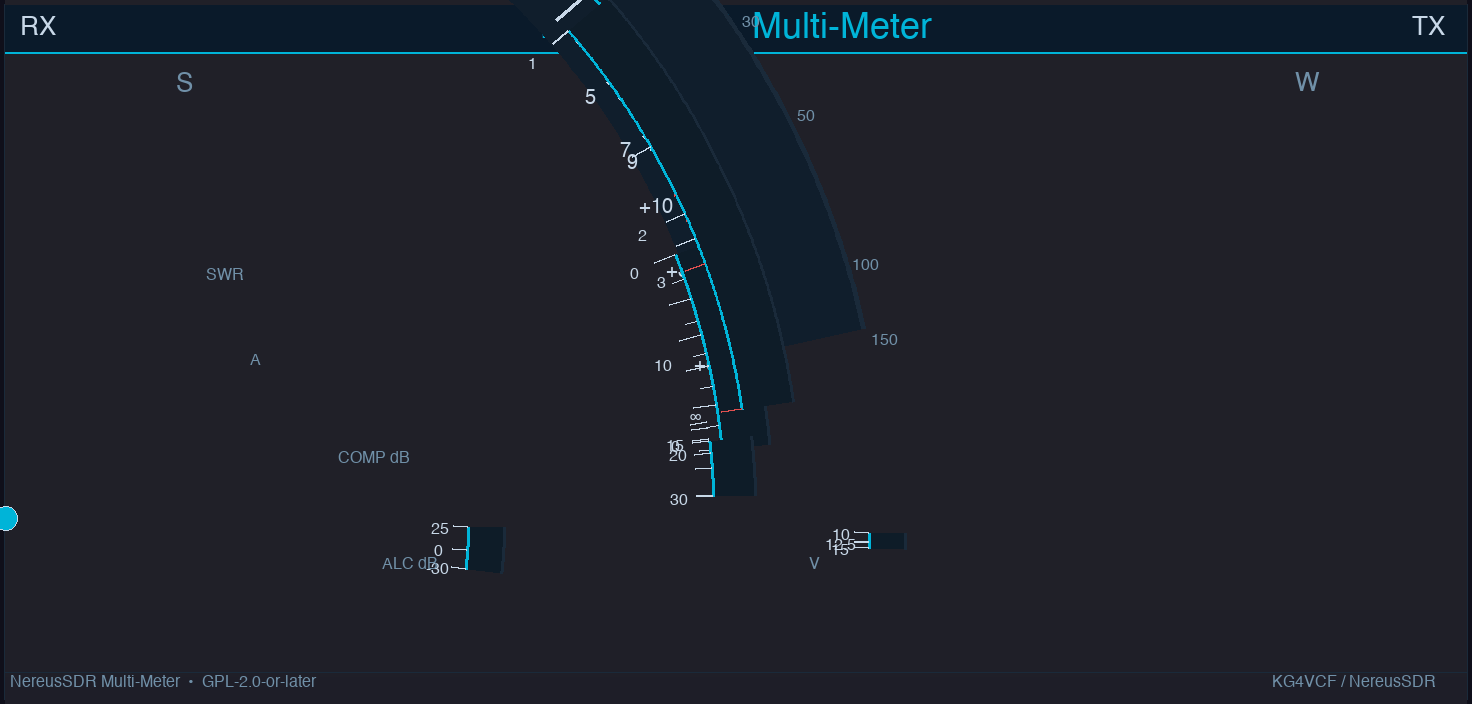
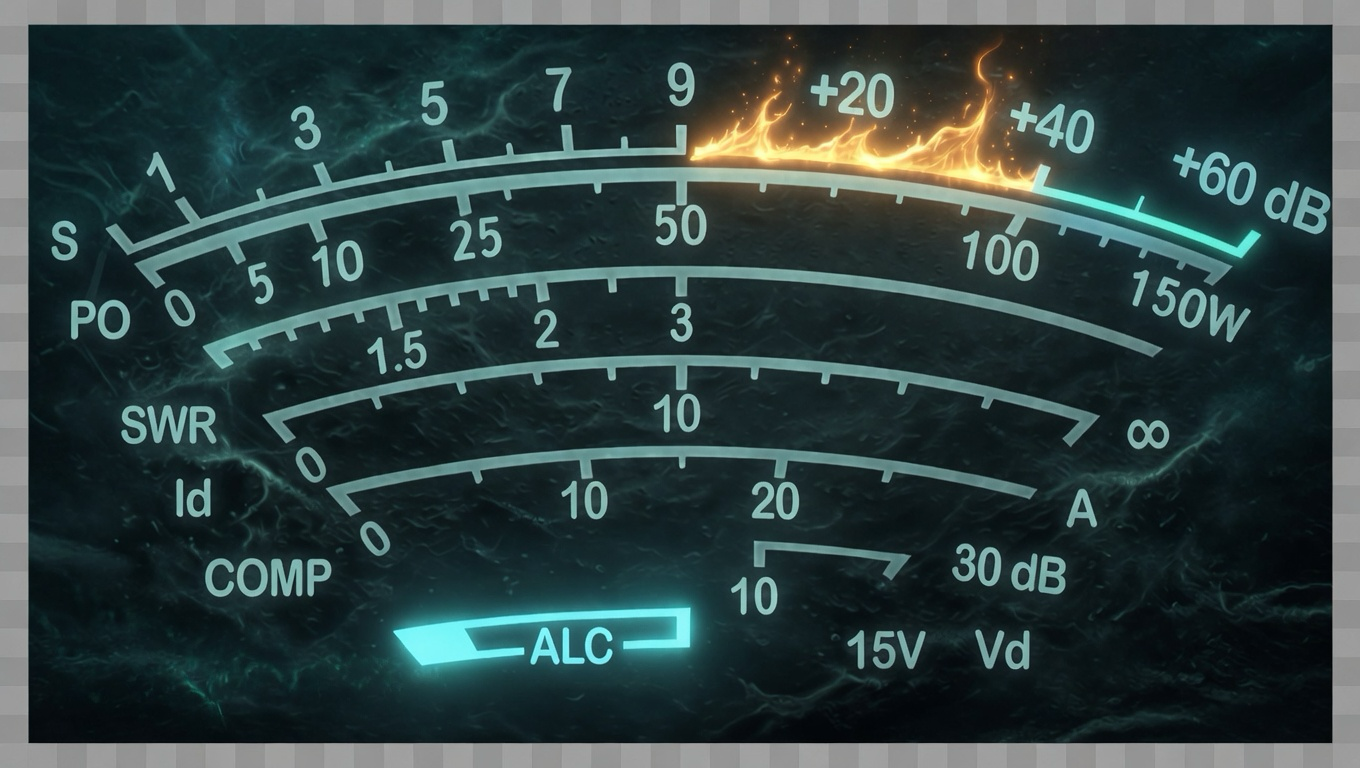
feat(compliance): swap in hand-designed meter artwork
Replace the interim programmatically-generated ananMM.png and
cross-needle.png / cross-needle-bg.png (from tools/generate-meter-face.py
and tools/generate-cross-needle.py) with hand-designed PNG artwork
authored by J.J. Boyd for NereusSDR.

- ananMM.png: 1360x768 (was 1472x704)
- cross-needle.png: 1104x928 (was 800x626)
- cross-needle-bg.png: 1104x928 (was 800x136) — same bitmap as cross-needle.png; the two-layer render path stays intact

No ANAN / Apache Labs / OE3IDE imagery, no Digital-7 typography. The
generator scripts remain in tools/ for history; ASSETS.md now documents
the hand-designed shipping artwork as the authoritative provenance.

diff --git a/docs/attribution/ASSETS.md b/docs/attribution/ASSETS.md
@@ -11,16 +11,17 @@ All assets listed here are GPL-2.0-or-later unless noted otherwise.
 
 | File | Origin | Author | License | Added |
 | --- | --- | --- | --- | --- |
-| `ananMM.png` | Original NereusSDR artwork — programmatically generated by `tools/generate-meter-face.py`. No ANAN / Apache Labs / OE3IDE bitmap was copied or derived. Scale calibration coordinates are from NereusSDR `ItemGroup.cpp` (which ports the Thetis C# calibration tables, but the rendered image is wholly new artwork). | J.J. Boyd (KG4VCF) | GPL-2.0-or-later | 2026-04-17 (commit `2f35d44`) |
-| `cross-needle.png` | Original NereusSDR artwork — programmatically generated by `tools/generate-cross-needle.py`. Prior to commit `feat(compliance): replace cross-needle artwork…` (Task 13), this file was a byte-identical placeholder copy of `ananMM.png` (see commit `84f77e8`). The placeholder was never shipped in a release and has now been replaced with wholly original artwork. No Thetis / OE3IDE skin image was copied or derived. | J.J. Boyd (KG4VCF) | GPL-2.0-or-later | 2026-04-17 (regenerated; placeholder introduced 2026-04-11) |
-| `cross-needle-bg.png` | Original NereusSDR artwork — programmatically generated by `tools/generate-cross-needle.py`. Same placeholder history as `cross-needle.png` above; same remediation applied. | J.J. Boyd (KG4VCF) | GPL-2.0-or-later | 2026-04-17 (regenerated; placeholder introduced 2026-04-11) |
+| `ananMM.png` | Original NereusSDR artwork, hand-designed by J.J. Boyd (KG4VCF). 1360×768 PNG drawn from scratch for NereusSDR; no ANAN / Apache Labs / OE3IDE bitmap was copied, traced, or otherwise derived; no Ernst-style (Digital-7) typography is used. | J.J. Boyd (KG4VCF) | GPL-2.0-or-later | 2026-04-17 |
+| `cross-needle.png` | Original NereusSDR artwork, hand-designed by J.J. Boyd (KG4VCF). 1104×928 PNG. Prior to the compliance remediation this file was a byte-identical placeholder copy of `ananMM.png` (commit `84f77e8`, 2026-04-11); the placeholder was never shipped in a release and has been replaced with wholly original artwork. No Thetis / OE3IDE skin image was copied or derived. | J.J. Boyd (KG4VCF) | GPL-2.0-or-later | 2026-04-17 |
+| `cross-needle-bg.png` | Original NereusSDR artwork, hand-designed by J.J. Boyd (KG4VCF). 1104×928 PNG, same source as `cross-needle.png`; the two files exist so the rendering code's two-layer image path continues to function. | J.J. Boyd (KG4VCF) | GPL-2.0-or-later | 2026-04-17 |
 
-### Generator scripts
+### Provenance of earlier placeholders
 
-| Script | Produces | Notes |
-| --- | --- | --- |
-| `tools/generate-meter-face.py` | `ananMM.png` | Run `python3 tools/generate-meter-face.py` from repo root |
-| `tools/generate-cross-needle.py` | `cross-needle.png`, `cross-needle-bg.png` | Run `python3 tools/generate-cross-needle.py` from repo root |
+Interim programmatic generators (`tools/generate-meter-face.py`,
+`tools/generate-cross-needle.py`) were used during the compliance sweep
+before the hand-designed artwork was final. They are retained in the
+repository for history; the shipping artwork is the hand-designed
+version authored by J.J. Boyd and listed above.
 
 ---
 
